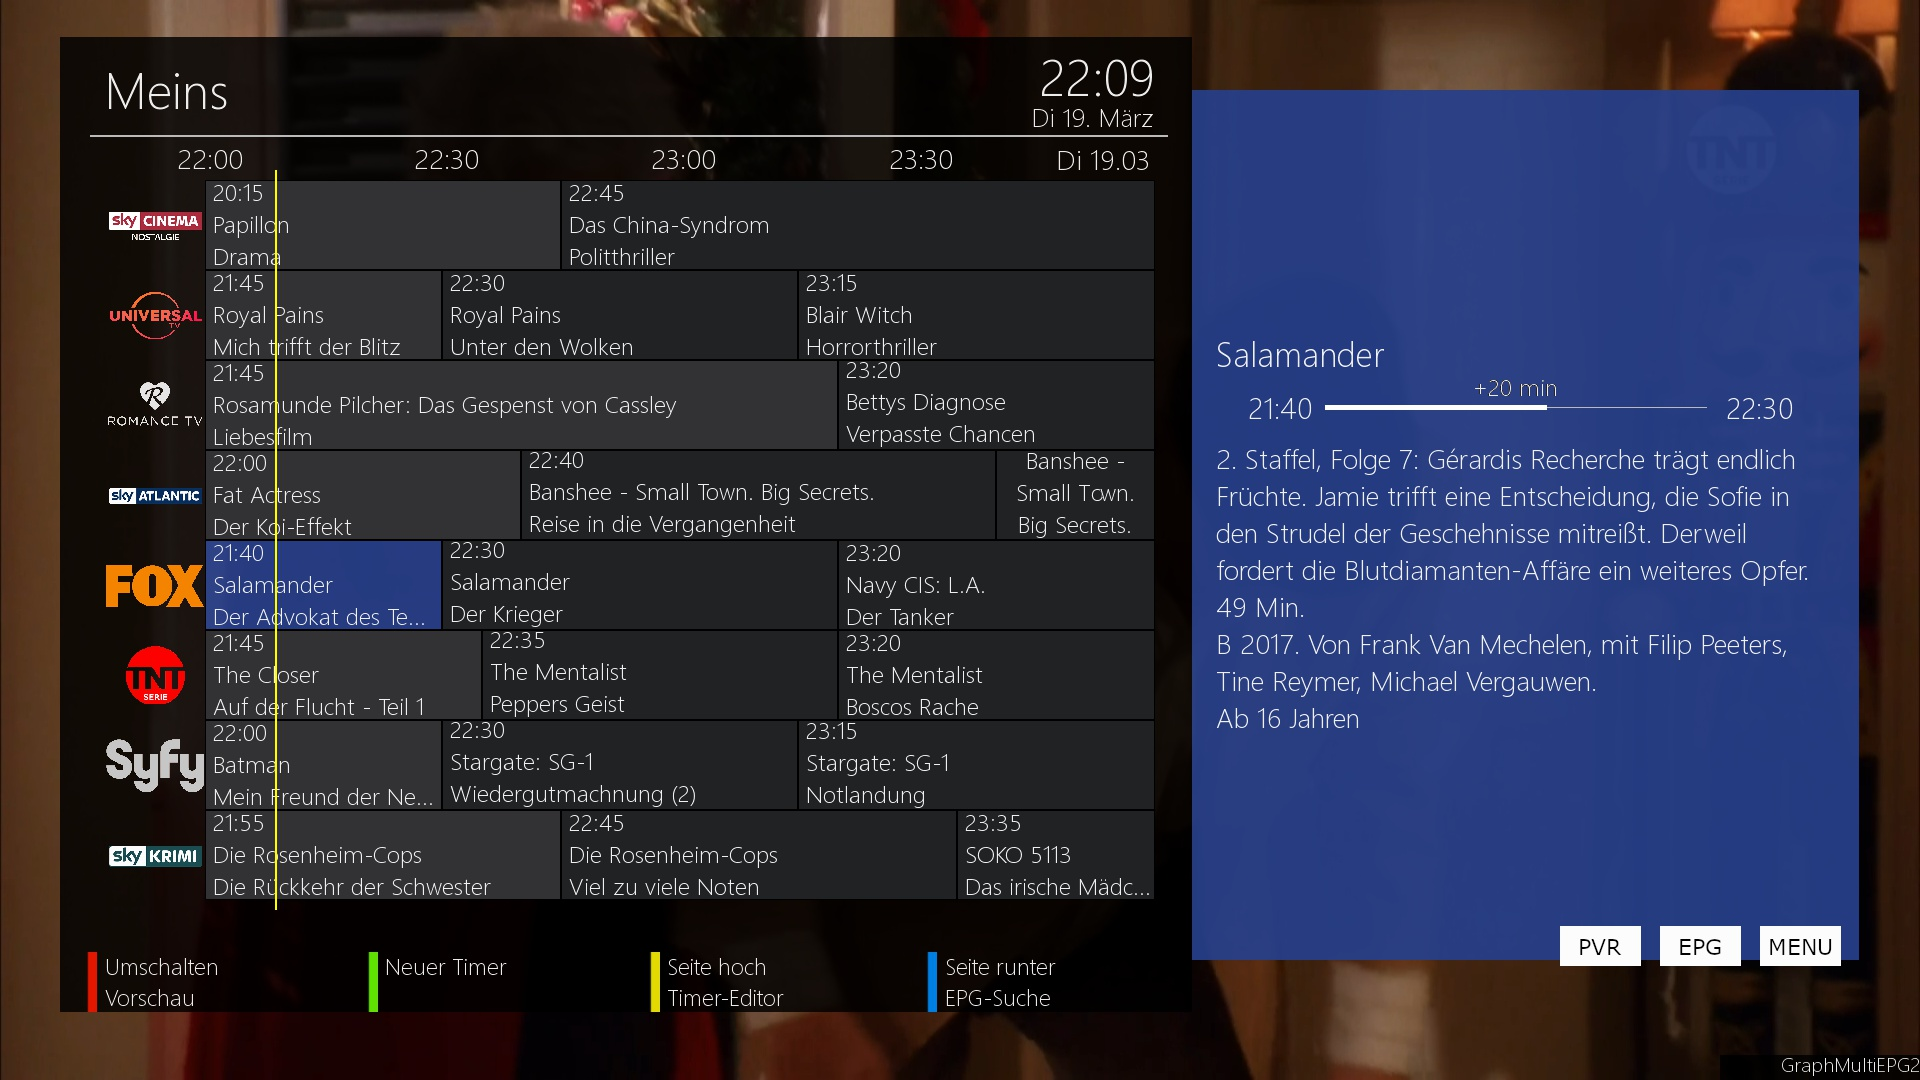
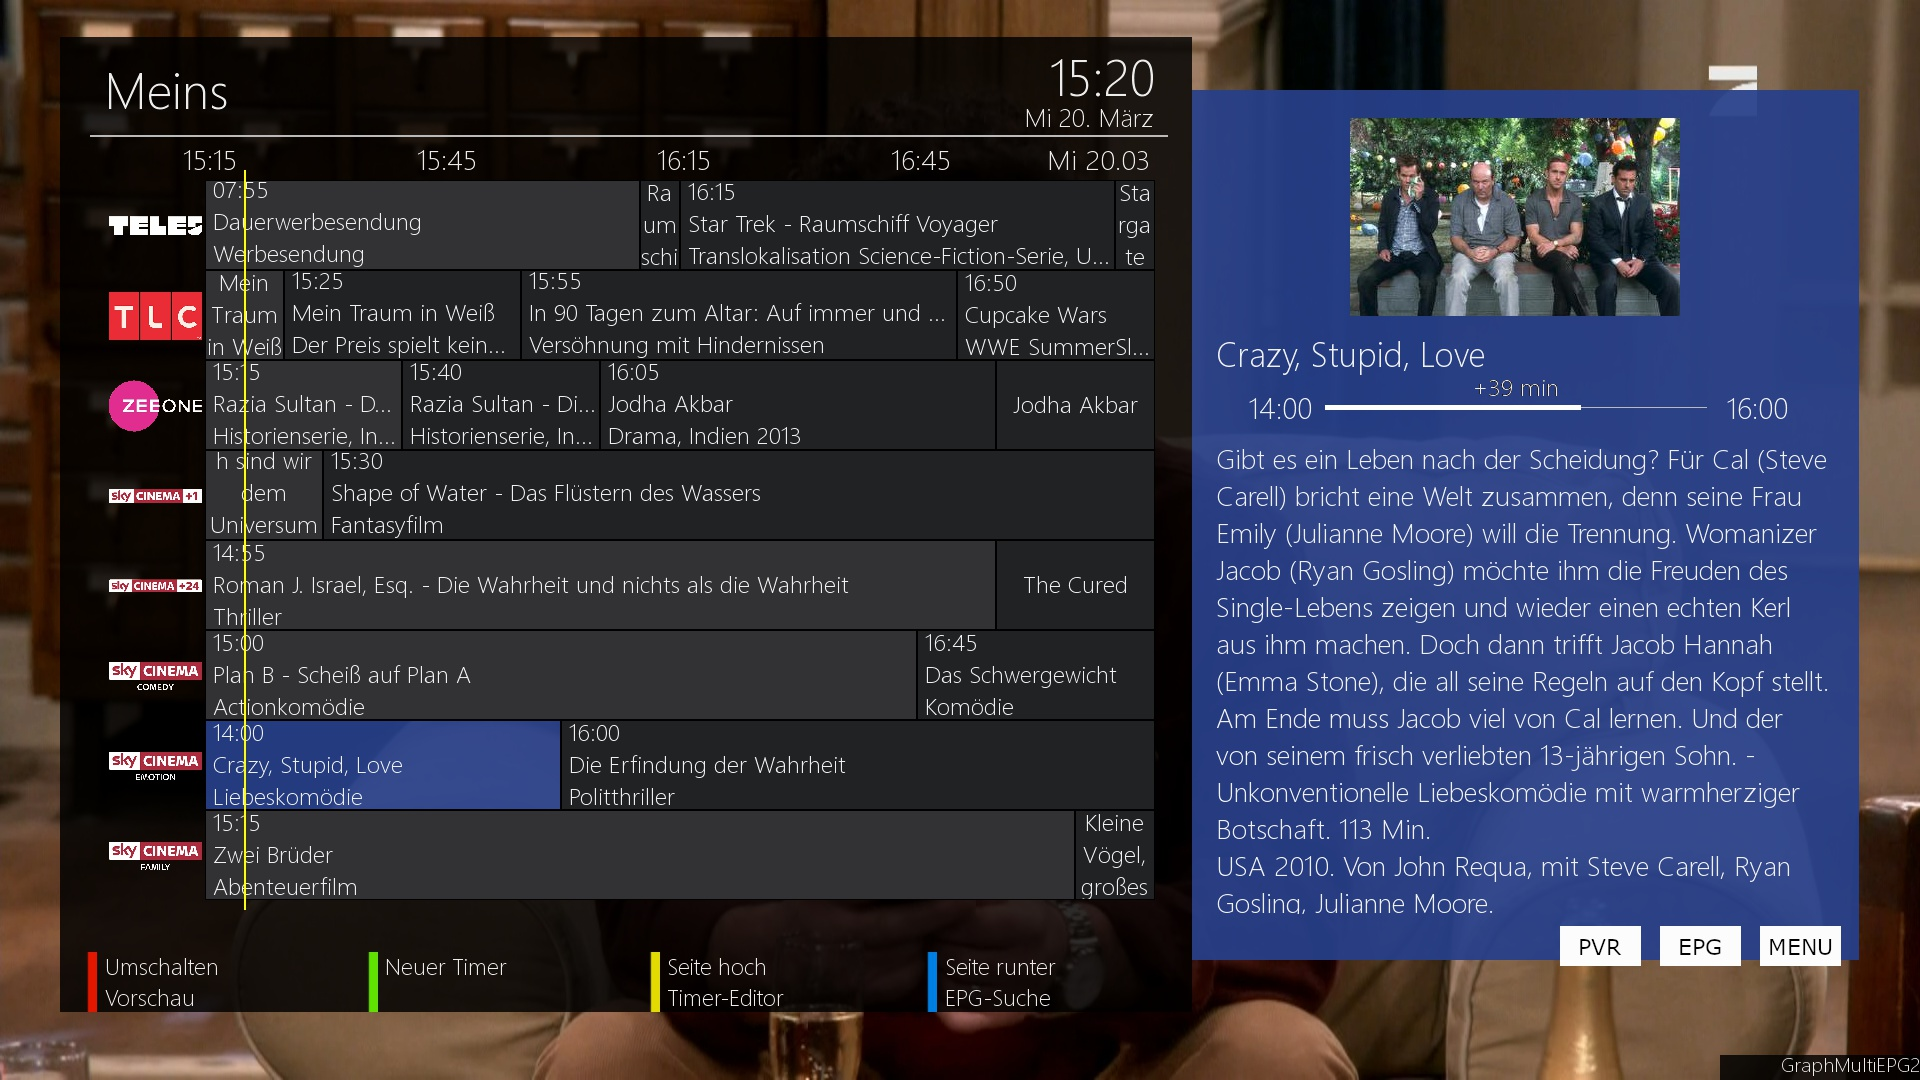
screenshots and README.md updated

diff --git a/README.md b/README.md
@@ -48,6 +48,7 @@ Mit Hilfe der **merger.exe** wird aus den screenFiles die [skin.xml](https://git
 <img src="screenshots/ChannelSelection.jpg?sanitize=true&raw=true" title="ChannelSelection" width="400"/>
 <img src="screenshots/EPGSelection.jpg?sanitize=true&raw=true" title="EPGSelection" width="400"/>
 <img src="screenshots/GraphMultiEPG.jpg?sanitize=true&raw=true" title="GraphMultiEPG" width="400"/>
+<img src="screenshots/GraphMultiEPG1.jpg?sanitize=true&raw=true" title="GraphMultiEPG1" width="400"/>
 <img src="screenshots/GraphMultiEPG2.jpg?sanitize=true&raw=true" title="GraphMultiEPG2" width="400"/>
 <img src="screenshots/GraphMultiEPG3.jpg?sanitize=true&raw=true" title="GraphMultiEPG3" width="400"/>
 </p>
